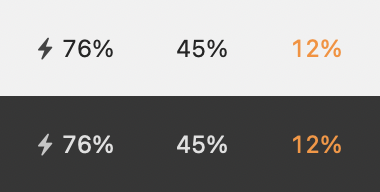
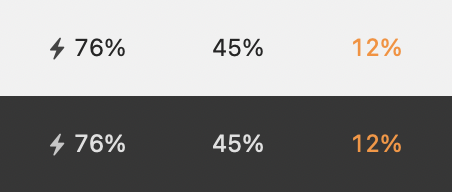
battery: compact spacing toggle, and a custom view to make it possible
The button's own title carries AppKit's padding, so the item is drawn by
a custom view now. Same view renders the README image, which stops it
drifting from what the menu bar actually shows.

diff --git a/Sources/MiniBatteryMenu/Screenshot.swift b/Sources/MiniBatteryMenu/Screenshot.swift
@@ -6,28 +6,28 @@ import AppKit
 ///     "Mini Battery Menu.app/Contents/MacOS/MiniBatteryMenu" --render-shot docs/menubar.png
 enum Screenshot {
 
-    private struct Sample {
-        let percent: Int
-        let charging: Bool
-        let plugged: Bool
-    }
-
     private static let samples = [
-        Sample(percent: 76, charging: true, plugged: true),
-        Sample(percent: 45, charging: false, plugged: false),
-        Sample(percent: 12, charging: false, plugged: false),
+        BatteryInfo(percent: 76, isCharging: true, isPlugged: true),
+        BatteryInfo(percent: 45, isCharging: false, isPlugged: false),
+        BatteryInfo(percent: 12, isCharging: false, isPlugged: false),
     ]
 
-    private static let font = NSFont.monospacedDigitSystemFont(ofSize: 12, weight: .regular)
     private static let sampleGap: CGFloat = 30
-    private static let glyphGap: CGFloat = 3
+
+    /// The real view, so the README image cannot drift from what the menu bar
+    /// actually draws.
+    private static func view(for info: BatteryInfo) -> BatteryView {
+        let view = BatteryView()
+        view.info = info
+        return view
+    }
 
     static func render(to path: String) {
         let barHeight: CGFloat = 22
         let padX: CGFloat = 18
         let padY: CGFloat = 13
 
-        let contentWidth = samples.reduce(CGFloat(0)) { $0 + width(of: $1) }
+        let contentWidth = samples.reduce(CGFloat(0)) { $0 + view(for: $1).fittingWidth() }
             + sampleGap * CGFloat(samples.count - 1)
         let size = NSSize(width: contentWidth + padX * 2, height: (barHeight + padY * 2) * 2)
 
@@ -51,8 +51,19 @@ enum Screenshot {
             appearance.performAsCurrentDrawingAppearance {
                 var x = padX
                 for sample in samples {
-                    draw(sample, at: x, centreY: bandY + bandHeight / 2)
-                    x += width(of: sample) + sampleGap
+                    let item = view(for: sample)
+                    item.appearance = appearance
+                    let width = item.fittingWidth()
+                    item.frame = NSRect(x: 0, y: 0, width: width, height: barHeight)
+
+                    NSGraphicsContext.saveGraphicsState()
+                    let transform = NSAffineTransform()
+                    transform.translateX(by: x, yBy: bandY + padY)
+                    transform.concat()
+                    item.draw(item.bounds)
+                    NSGraphicsContext.restoreGraphicsState()
+
+                    x += width + sampleGap
                 }
             }
         }
@@ -67,42 +78,8 @@ enum Screenshot {
         print("wrote \(path) (\(Int(size.width))x\(Int(size.height)))")
     }
 
-    private static func colour(for sample: Sample) -> NSColor {
-        if !sample.plugged, sample.percent <= 10 { return .systemRed }
-        if !sample.plugged, sample.percent <= 20 { return .systemOrange }
-        return .labelColor
-    }
 
-    private static func glyph(for sample: Sample) -> NSImage? {
-        guard sample.charging || sample.plugged else { return nil }
-        var config = NSImage.SymbolConfiguration(pointSize: 9.5, weight: .bold)
-        config = config.applying(NSImage.SymbolConfiguration(paletteColors: [colour(for: sample)]))
-        return NSImage(systemSymbolName: sample.charging ? "bolt.fill" : "bolt",
-                       accessibilityDescription: nil)?.withSymbolConfiguration(config)
-    }
 
-    private static func attributed(_ sample: Sample) -> NSAttributedString {
-        NSAttributedString(string: "\(sample.percent)%", attributes: [
-            .font: font,
-            .foregroundColor: colour(for: sample),
-        ])
-    }
 
-    private static func width(of sample: Sample) -> CGFloat {
-        var total = ceil(attributed(sample).size().width)
-        if let glyph = glyph(for: sample) { total += glyph.size.width + glyphGap }
-        return total
-    }
 
-    private static func draw(_ sample: Sample, at x: CGFloat, centreY: CGFloat) {
-        var cursor = x
-        if let glyph = glyph(for: sample) {
-            glyph.draw(in: NSRect(x: cursor, y: centreY - glyph.size.height / 2,
-                                  width: glyph.size.width, height: glyph.size.height))
-            cursor += glyph.size.width + glyphGap
-        }
-        let text = attributed(sample)
-        let size = text.size()
-        text.draw(at: NSPoint(x: cursor, y: centreY - size.height / 2))
-    }
 }

diff --git a/Sources/MiniBatteryMenu/AppDelegate.swift b/Sources/MiniBatteryMenu/AppDelegate.swift
@@ -7,12 +7,20 @@ final class AppDelegate: NSObject, NSApplicationDelegate {
     private var statusItem: NSStatusItem!
     private var timer: Timer?
     private var runLoopSource: CFRunLoopSource?
+    private let view = BatteryView()
+
+    private let compactKey = "minibattery.compact"
+    private var compact: Bool {
+        get { UserDefaults.standard.bool(forKey: compactKey) }
+        set { UserDefaults.standard.set(newValue, forKey: compactKey); refresh() }
+    }
 
     func applicationDidFinishLaunching(_ notification: Notification) {
         statusItem = NSStatusBar.system.statusItem(withLength: NSStatusItem.variableLength)
-        statusItem.button?.imagePosition = .imageLeading
         statusItem.menu = NSMenu()
         statusItem.menu?.delegate = self
+        statusItem.button?.addSubview(view)
+        view.autoresizingMask = [.width, .height]
 
         refresh()
 
@@ -39,49 +47,16 @@ final class AppDelegate: NSObject, NSApplicationDelegate {
     private var info: BatteryInfo?
 
     private func refresh() {
-        guard let button = statusItem.button else { return }
-        let info = Battery.read()
-        self.info = info
+        info = Battery.read()
+        view.info = info
+        view.compact = compact
 
-        guard let info else {
-            button.image = nil
-            button.attributedTitle = NSAttributedString(string: "--", attributes: [
-                .font: NSFont.monospacedDigitSystemFont(ofSize: 12, weight: .regular),
-                .foregroundColor: NSColor.secondaryLabelColor,
-            ])
-            return
-        }
-
-        button.image = chargeGlyph(for: info)
-        button.attributedTitle = NSAttributedString(string: "\(info.percent)%", attributes: [
-            .font: NSFont.monospacedDigitSystemFont(ofSize: 12, weight: .regular),
-            .foregroundColor: color(for: info),
-        ])
+        let width = view.fittingWidth()
+        statusItem.length = width
+        view.frame = NSRect(x: 0, y: 0, width: width, height: NSStatusBar.system.thickness)
     }
 
-    /// Filled bolt while charging, hollow while plugged in but held (optimised
-    /// charging pauses short of full), nothing on battery.
-    private func chargeGlyph(for info: BatteryInfo) -> NSImage? {
-        let name: String
-        if info.isCharging {
-            name = "bolt.fill"
-        } else if info.isPlugged {
-            name = "bolt"
-        } else {
-            return nil
-        }
-        let config = NSImage.SymbolConfiguration(pointSize: 9.5, weight: .bold)
-        let image = NSImage(systemSymbolName: name, accessibilityDescription: "Charging")?
-            .withSymbolConfiguration(config)
-        image?.isTemplate = true
-        return image
-    }
-
-    private func color(for info: BatteryInfo) -> NSColor {
-        if info.isCritical { return .systemRed }
-        if info.isLow { return .systemOrange }
-        return .labelColor
-    }
+    @objc private func toggleCompact() { compact.toggle() }
 
     // MARK: - Login item
 
@@ -147,6 +122,13 @@ extension AppDelegate: NSMenuDelegate {
     }
 
     private func addFooter(to menu: NSMenu) {
+        let compactItem = NSMenuItem(title: "Compact Spacing", action: #selector(toggleCompact),
+                                     keyEquivalent: "")
+        compactItem.target = self
+        compactItem.state = compact ? .on : .off
+        compactItem.toolTip = "Tightens the padding inside this item. The gap between menu bar items is set by macOS and cannot be changed."
+        menu.addItem(compactItem)
+
         let login = NSMenuItem(title: "Open at Login", action: #selector(toggleLoginItem), keyEquivalent: "")
         login.target = self
         login.state = SMAppService.mainApp.status == .enabled ? .on : .off

diff --git a/Sources/MiniBatteryMenu/BatteryView.swift b/Sources/MiniBatteryMenu/BatteryView.swift
@@ -1,0 +1,79 @@
+import AppKit
+
+/// Draws the status item contents. A custom view rather than the button's own
+/// title so the padding is ours to control: macOS owns the gap between status
+/// items, the padding inside one is the only width an app can give back.
+final class BatteryView: NSView {
+
+    var info: BatteryInfo? { didSet { needsDisplay = true } }
+    var compact: Bool = false { didSet { needsDisplay = true } }
+    var isHighlighted: Bool = false { didSet { needsDisplay = true } }
+
+    private var sidePadding: CGFloat { compact ? 2 : 6 }
+    private var glyphGap: CGFloat { compact ? 2 : 3 }
+
+    private let font = NSFont.monospacedDigitSystemFont(ofSize: 12, weight: .regular)
+
+    // MARK: presentation
+
+    private var textColor: NSColor {
+        guard let info else { return .secondaryLabelColor }
+        if isHighlighted { return .selectedMenuItemTextColor }
+        if info.isCritical { return .systemRed }
+        if info.isLow { return .systemOrange }
+        return .labelColor
+    }
+
+    private var label: String {
+        guard let info else { return "--" }
+        return "\(info.percent)%"
+    }
+
+    /// Filled bolt while charging, hollow while plugged but held short of full,
+    /// nothing on battery.
+    private var glyph: NSImage? {
+        guard let info, info.isCharging || info.isPlugged else { return nil }
+        var config = NSImage.SymbolConfiguration(pointSize: 9.5, weight: .bold)
+        config = config.applying(NSImage.SymbolConfiguration(paletteColors: [textColor]))
+        return NSImage(systemSymbolName: info.isCharging ? "bolt.fill" : "bolt",
+                       accessibilityDescription: info.isCharging ? "Charging" : "Connected")?
+            .withSymbolConfiguration(config)
+    }
+
+    private var attributed: NSAttributedString {
+        NSAttributedString(string: label, attributes: [.font: font, .foregroundColor: textColor])
+    }
+
+    // MARK: measurement
+
+    func fittingWidth() -> CGFloat {
+        var content = ceil(attributed.size().width)
+        if let glyph { content += glyph.size.width + glyphGap }
+        return ceil(content + sidePadding * 2)
+    }
+
+    // MARK: drawing
+
+    override func draw(_ dirtyRect: NSRect) {
+        var x = sidePadding
+        let centreY = bounds.midY
+
+        if let glyph {
+            glyph.draw(in: NSRect(x: x, y: (centreY - glyph.size.height / 2).rounded(),
+                                  width: glyph.size.width, height: glyph.size.height))
+            x += glyph.size.width + glyphGap
+        }
+
+        let text = attributed
+        let size = text.size()
+        text.draw(at: NSPoint(x: x, y: (centreY - size.height / 2).rounded()))
+    }
+
+    /// Clicks belong to the status item button, which owns the menu.
+    override func hitTest(_ point: NSPoint) -> NSView? { nil }
+
+    override func viewDidChangeEffectiveAppearance() {
+        super.viewDidChangeEffectiveAppearance()
+        needsDisplay = true
+    }
+}

diff --git a/Sources/MiniBatteryMenu/Battery.swift b/Sources/MiniBatteryMenu/Battery.swift
@@ -6,14 +6,14 @@ struct BatteryInfo {
     var percent: Int
     var isCharging: Bool
     var isPlugged: Bool
-    var isCharged: Bool
+    var isCharged: Bool = false
     /// Minutes. nil when the system is still working it out.
-    var minutesToEmpty: Int?
-    var minutesToFull: Int?
-    var cycleCount: Int?
-    var condition: String?
+    var minutesToEmpty: Int? = nil
+    var minutesToFull: Int? = nil
+    var cycleCount: Int? = nil
+    var condition: String? = nil
     /// Maximum capacity as a percentage of the design capacity.
-    var health: Int?
+    var health: Int? = nil
 
     var isLow: Bool { !isPlugged && percent <= 20 }
     var isCritical: Bool { !isPlugged && percent <= 10 }

diff --git a/README.md b/README.md
@@ -25,7 +25,14 @@ of the space.
   only when unplugged.
 
 Click it for time until full or empty, capacity against the original design
-capacity, cycle count and battery condition. Open at Login is in the same menu.
+capacity, cycle count and battery condition. Open at Login and Compact Spacing
+are in the same menu.
+
+**Compact Spacing** tightens the padding inside the item. macOS owns the gap
+*between* status items and no app can change that, so the padding within one is
+the only width there is to give back. On a full menu bar, macOS silently drops
+whichever items do not fit, so a few points can be the difference between
+seeing an item and not.
 
 ## Hiding the built in one
 
